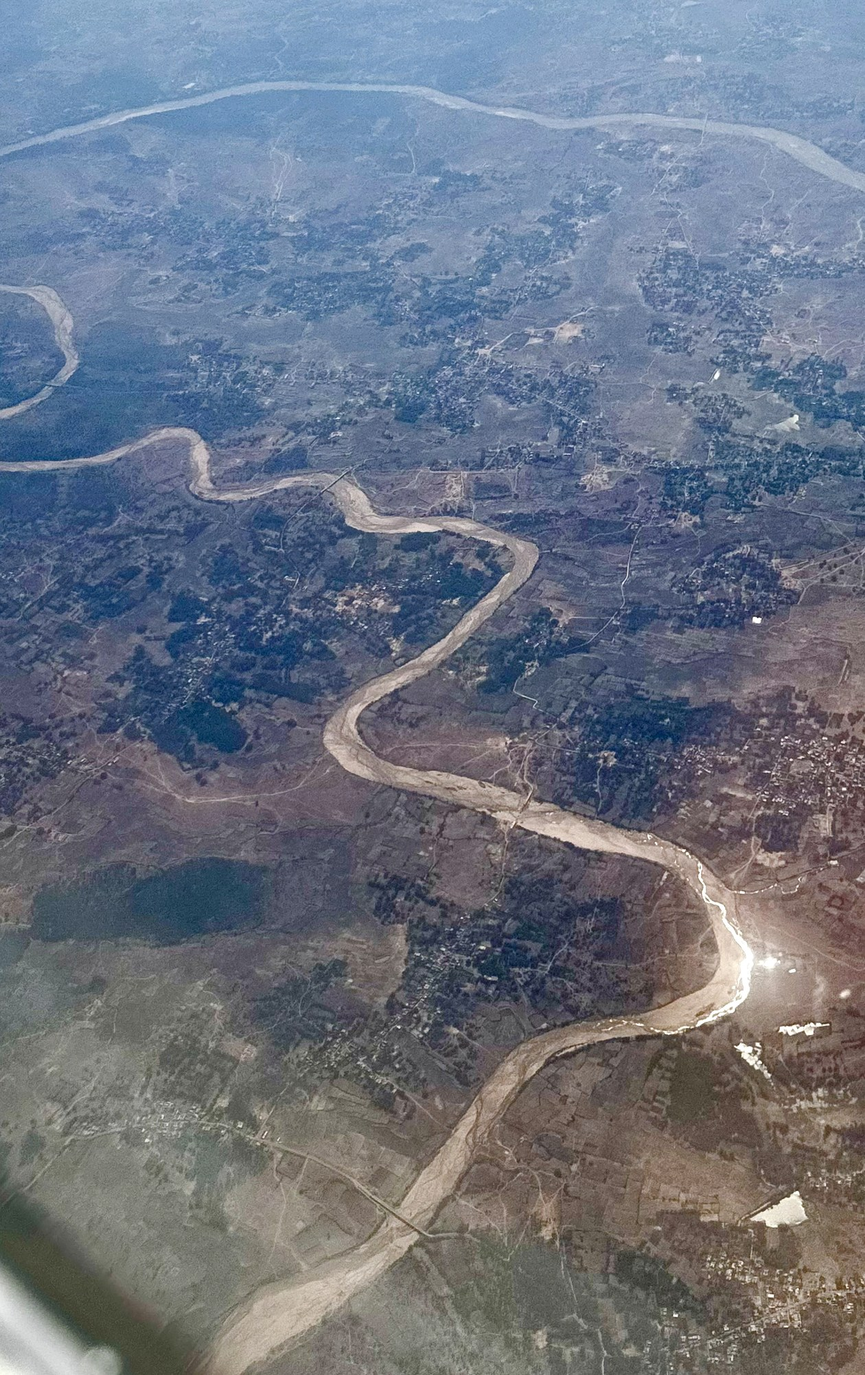
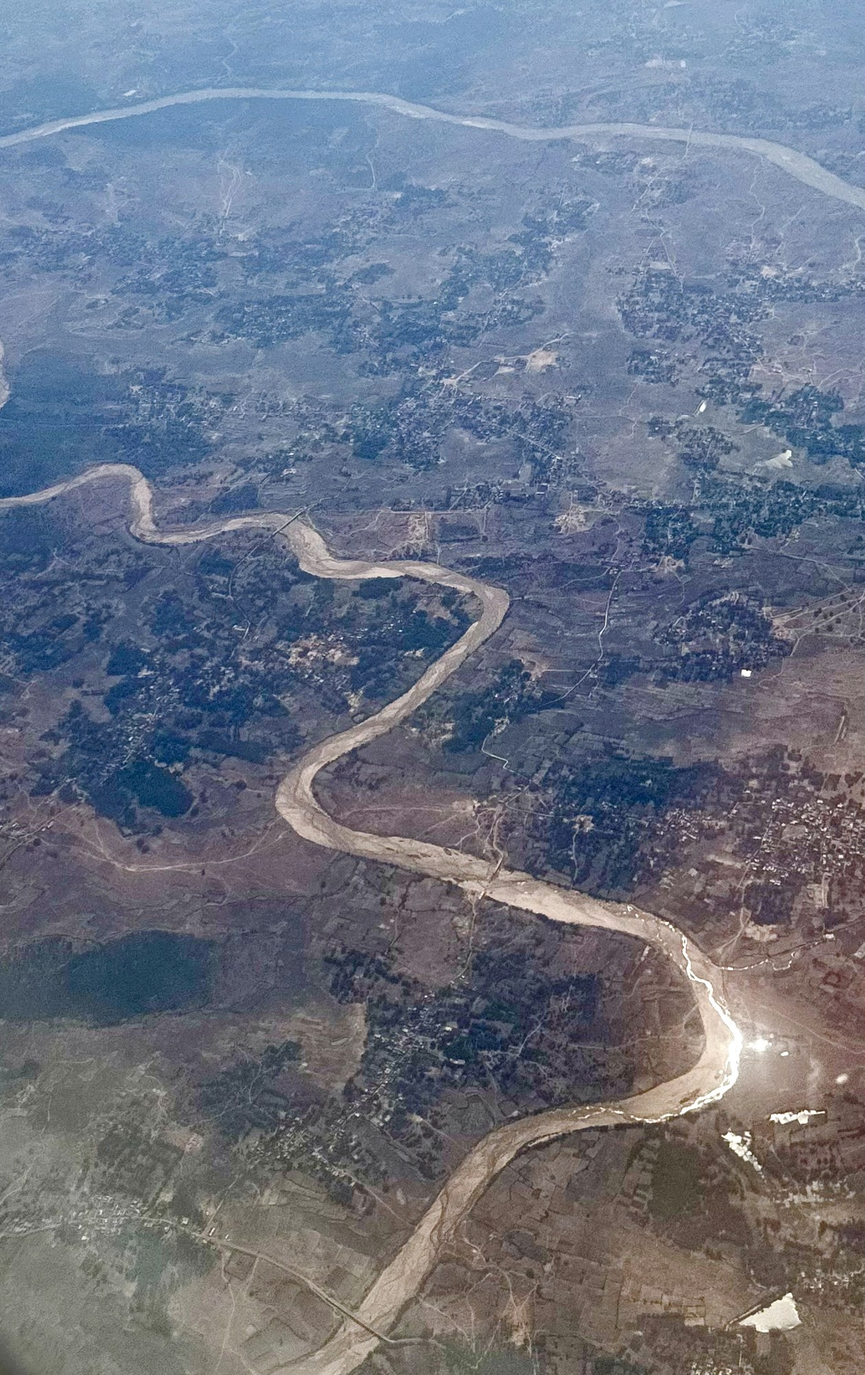
Tune mobile river hero reflection

diff --git a/index.html b/index.html
@@ -32,7 +32,7 @@
   <main id="main-content">
     <section class="hero home-hero" aria-labelledby="hero-title">
       <picture class="hero-picture">
-        <source media="(max-width: 560px)" srcset="assets/images/overview-river-hero-mobile.jpeg?v=6">
+        <source media="(max-width: 560px)" srcset="assets/images/overview-river-hero-mobile.jpeg?v=7">
         <img class="hero-image" src="assets/images/overview-river-hero.jpeg" alt="印度大地上的蜿蜒河道與陽光反射">
       </picture>
       <div class="hero-overlay hero-overlay-river"></div>
